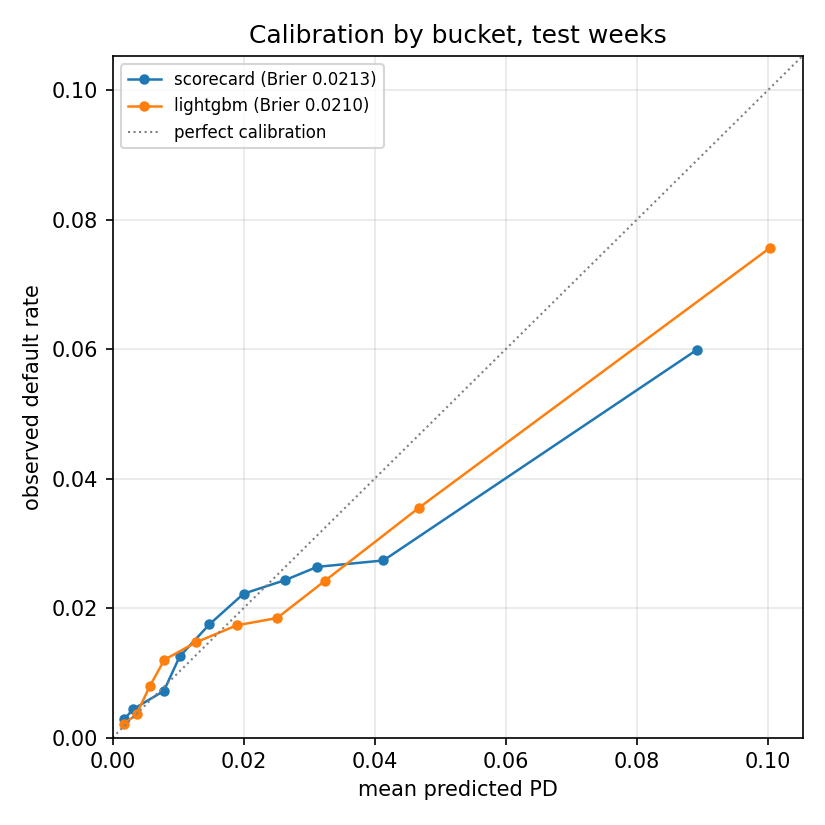
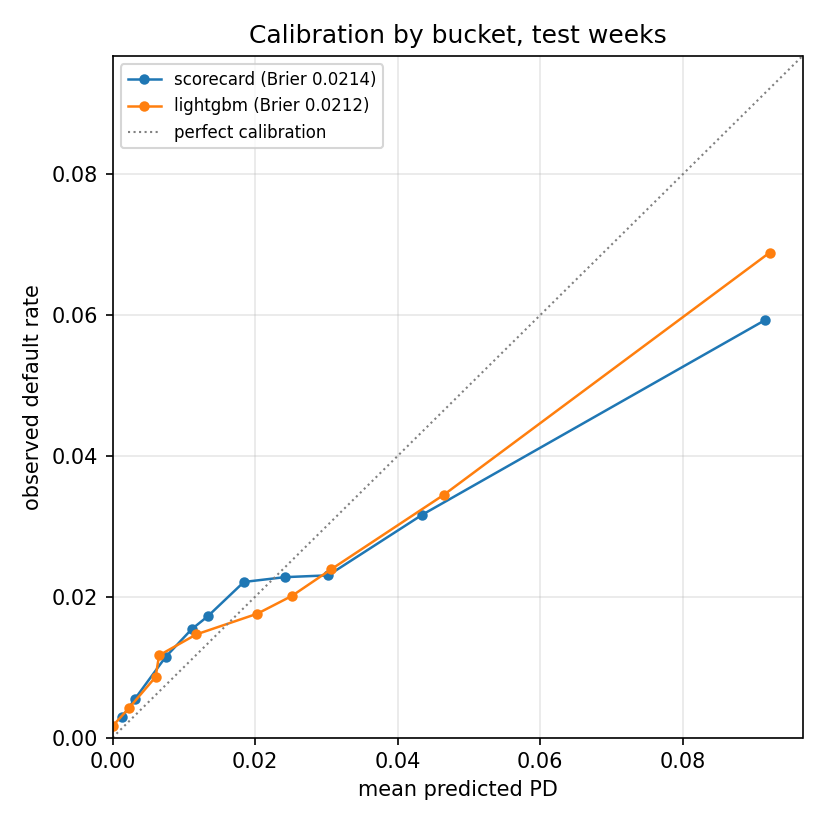
Re-run champion vs challenger with the screening decisions enforced
The previous run trained the scorecard on bureau_a_records, which screening had
dropped for PSI 0.614. Excluding it leaves 16 characteristics and lowers both
models, which is the honest direction: the earlier numbers were partly bought
with a feature the stability screen had rejected.

                      before    after
  scorecard Gini      0.4069   0.3763
  lightgbm  Gini      0.4675   0.4270
  scorecard stability 0.3720   0.3396
  lightgbm  stability 0.4339   0.3916

The comparison is unchanged in substance: the challenger adds about 5 Gini
points and keeps them once stability is measured. Score PSI rises for both
(0.54 and 0.42), which is consistent with removing a feature whose own PSI was
the reason for its exclusion.

README, comparison.csv, scorecard_table.csv, the three figures and the local
predictions are all regenerated from this run.

diff --git a/README.md b/README.md
@@ -26,27 +26,27 @@ Full data, 1,526,659 cases, evaluated out-of-time on the last 23 weeks
 
 | | scorecard | LightGBM | better |
 |---|---|---|---|
-| Gini | 0.4069 | **0.4675** | challenger |
-| mean weekly Gini | 0.3953 | **0.4595** | challenger |
-| Gini slope / week | +0.0032 | +0.0023 | — (both rising) |
-| Gini residual sd | **0.0467** | 0.0511 | champion |
-| **stability metric** | 0.3720 | **0.4339** | challenger |
-| Brier | 0.02129 | **0.02104** | challenger |
-| calibration-in-the-large, worst week | 0.0096 | **0.0088** | challenger |
-| score PSI vs train | 0.3873 | **0.3162** | challenger |
-| EMPCS | 0.000000 | 0.000024 | — (see below) |
+| Gini | 0.3763 | **0.4270** | challenger |
+| mean weekly Gini | 0.3667 | **0.4216** | challenger |
+| Gini slope / week | +0.0030 | +0.0017 | — (both rising) |
+| Gini residual sd | **0.0541** | 0.0600 | champion |
+| **stability metric** | 0.3396 | **0.3916** | challenger |
+| Brier | 0.02136 | **0.02117** | challenger |
+| calibration-in-the-large, worst week | 0.0089 | **0.0083** | challenger |
+| score PSI vs train | 0.5435 | **0.4234** | challenger |
+| EMPCS | ≈0 | ≈0 | — (see below) |
 
-**Question 1 — what the challenger adds.** About **6 Gini points** (0.407 →
-0.468), and it keeps them once stability is measured: the stability metric
-moves 0.372 → 0.434. Neither model's Gini decays over the test weeks — both
+**Question 1 — what the challenger adds.** About **5 Gini points** (0.376 →
+0.427), and it keeps them once stability is measured: the stability metric
+moves 0.340 → 0.392. Neither model's Gini decays over the test weeks — both
 slopes are positive, so the metric's 88× falling-slope penalty never engages
 and the gap is driven by level, not trend. The challenger is also *slightly*
 better calibrated and noticeably more stable in its score distribution
-(PSI 0.32 vs 0.39). The one thing the champion wins is week-to-week smoothness
+(PSI 0.42 vs 0.54). The one thing the champion wins is week-to-week smoothness
 (residual sd 0.047 vs 0.051).
 
-It is a real but unspectacular gain, bought with 713 trees against a 17-line
-scorecard, under monotone constraints taken from the champion's own binning so
+It is a real but unspectacular gain, bought with hundreds of trees against a
+16-characteristic scorecard, under monotone constraints taken from the champion's own binning so
 the challenger could not exploit relationships the scorecard was forbidden.
 
 **The profit comparison is degenerate, and that is the finding.** A loan is
@@ -61,8 +61,8 @@ degeneracy there is a result about the assumptions rather than something to
 tune away. Under this portfolio's economics, the model's value is not in
 choosing an approval cutoff.
 
-Score PSI above 0.25 for **both** models is worth flagging: in production that
-is an alert threshold, and it reflects genuine drift over 92 weeks rather than
+Score PSI above 0.25 for **both** models (0.54 and 0.42) is worth flagging: in
+production that is an alert threshold, and it reflects genuine drift over 92 weeks rather than
 a modelling defect. Test-week PSI is reported here only — it is never used for
 any selection decision.
 
@@ -175,7 +175,7 @@ code; the kernel versions used will be linked here.
 | Feature screening + report | [`docs/feature_report.csv`](docs/feature_report.csv) | **done, full data** |
 | Sampling-bias experiment (arms A0-A6) | `src/sampling_bias.py` | **done, run on full data** |
 
-258 tests, all on generated fixtures. Two kernels have been run end to end on the real
+260 tests, all on generated fixtures. Two kernels have been run end to end on the real
 competition data.
 
 ## Environment
